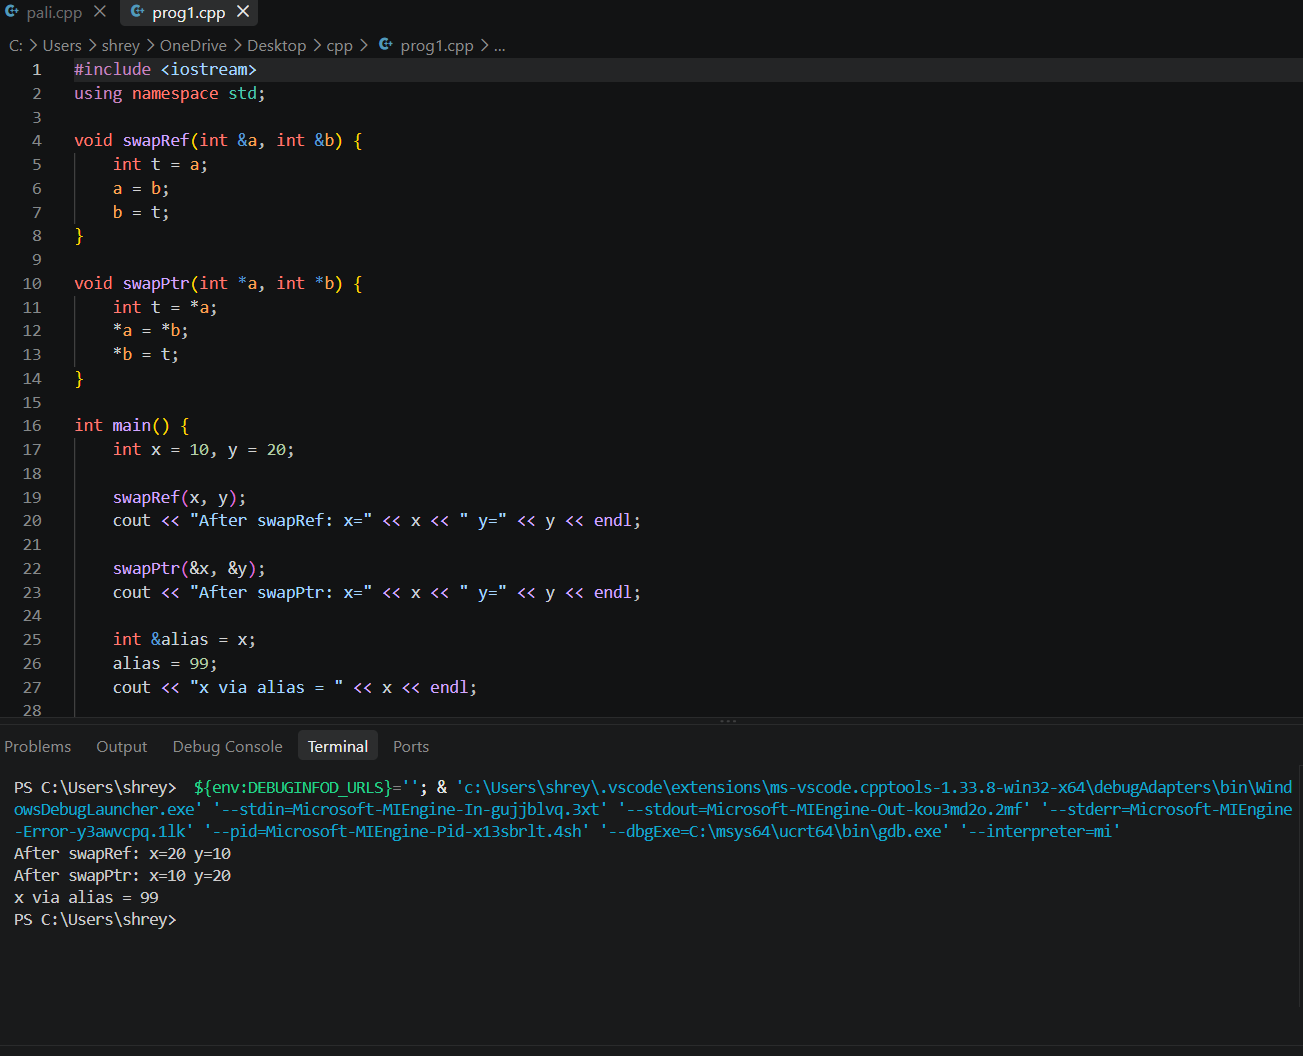
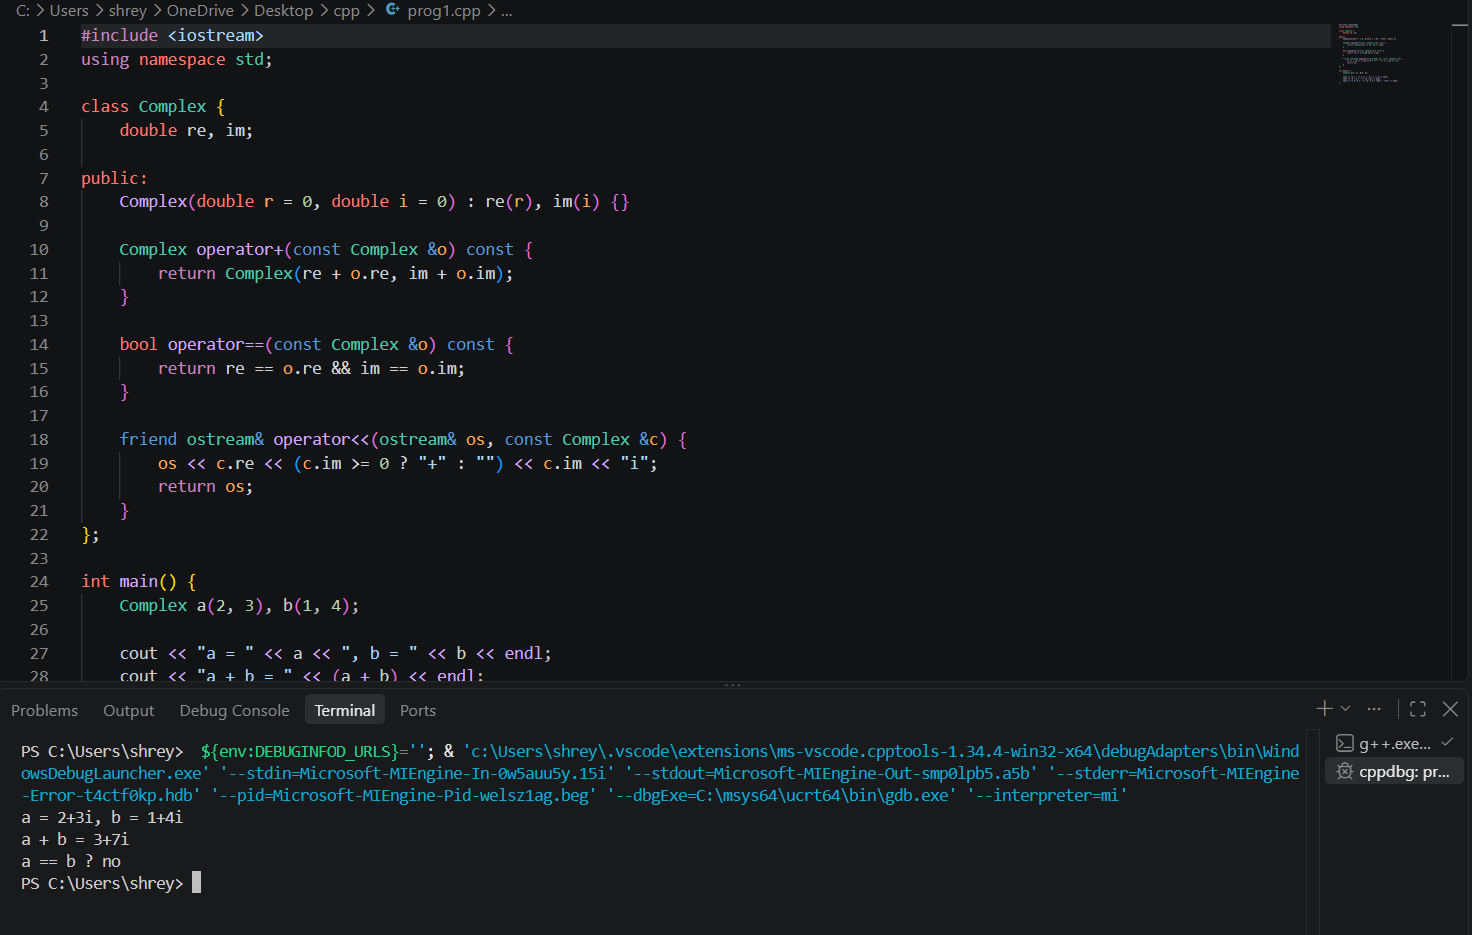
Add files via upload

diff --git a/prog3.cpp b/prog3.cpp
@@ -1,33 +1,52 @@
 #include <iostream>
-#include <string>
-#include <cctype>
-
 using namespace std;
 
+class Counter {
+    int v;
+
+public:
+    Counter(int v = 0) : v(v) {}
+
+    Counter& operator++() {
+        ++v;
+        return *this;
+    }                                      
+
+    Counter operator++(int) {
+        Counter t = *this;
+        ++v;
+        return t;
+    }                                     
+
+    int value() const {
+        return v;
+    }
+};
+
+class SafeArr {
+    int a[5] = {10, 20, 30, 40, 50};
+
+public:
+    int& operator[](int i) {
+        if (i < 0 || i >= 5) {
+            cout << "out of range\n";
+            return a[0];
+        }
+        return a[i];
+    }                                    
+};
+
 int main() {
-    string s = "verification";
+    Counter c(5);
+    ++c;
+    c++;                                 
 
-    cout << "First 4 : " << s.substr(0, 4) << endl;    
-    cout << "From 4  : " << s.substr(4) << endl;       
+    cout << "Counter = " << c.value() << endl;
 
-    int c = s.compare("verify");                       
+    SafeArr s;
+    cout << "s[2] = " << s[2] << endl;    
 
-    cout << "compare vs 'verify': "
-         << (c < 0 ? "<" : c > 0 ? ">" : "=") << endl;
-
-    int freq[26] = {0};
-
-    for (char ch : s)
-        if (isalpha((unsigned char)ch))
-            freq[tolower(ch) - 'a']++;
-
-    cout << "Letter counts: ";
-
-    for (int i = 0; i < 26; ++i)
-        if (freq[i])
-            cout << char('a' + i) << ":" << freq[i] << " ";
-
-    cout << endl;
+    s[10] = 99;                            
 
     return 0;
 }

diff --git a/prog1.cpp b/prog1.cpp
@@ -1,30 +1,30 @@
 #include <iostream>
-using namespace std;    
+using namespace std;
 
-void swapRef(int &a, int &b) {
-    int t = a;
-    a = b;
-    b = t;
-}
+class Complex {
+    double re, im;
 
-void swapPtr(int *a, int *b) {
-    int t = *a;
-    *a = *b;
-    *b = t;
-}
+public:
+    Complex(double r = 0, double i = 0) : re(r), im(i) {}
+
+    Complex operator+(const Complex &o) const {      
+        return Complex(re + o.re, im + o.im);
+    }
+
+    bool operator==(const Complex &o) const {        
+        return re == o.re && im == o.im;
+    }
+    
+    friend ostream& operator<<(ostream& os, const Complex &c) {
+        os << c.re << (c.im >= 0 ? "+" : "") << c.im << "i";
+        return os;                                  
+    }
+};
 
 int main() {
-    int x = 10, y = 20;
+    Complex a(2, 3), b(1, 4);
 
-    swapRef(x, y);         
-    cout << "After swapRef: x=" << x << " y=" << y << endl;
-
-    swapPtr(&x, &y);        
-    cout << "After swapPtr: x=" << x << " y=" << y << endl;
-
-    int &alias = x;         
-    alias = 99;            
-    cout << "x via alias = " << x << endl;
-
-    return 0;
+    cout << "a = " << a << ", b = " << b << endl;
+    cout << "a + b = " << (a + b) << endl;
+    cout << "a == b ? " << (a == b ? "yes" : "no") << endl;
 }

diff --git a/prog2.cpp b/prog2.cpp
@@ -1,0 +1,45 @@
+#include <iostream>
+#include <cstring>
+using namespace std;
+
+class Text {
+    char *buf;
+
+public:
+    Text(const char *s = "") 
+    { 
+        buf = new char[strlen(s)+1]; 
+        strcpy(buf, s); 
+    }
+
+    Text(const Text &o) 
+    { 
+        buf = new char[strlen(o.buf)+1]; 
+        strcpy(buf, o.buf); }
+
+    Text& operator=(const Text &o) 
+    {              
+        if (this != &o) 
+        {                         
+            delete[] buf;                        
+            buf = new char[strlen(o.buf)+1];
+            strcpy(buf, o.buf);
+        }
+        return *this;                            
+    }
+
+    ~Text() { delete[] buf; }
+
+    void show() const { cout << buf << endl; }
+};
+
+int main() {
+    Text a("alpha"), b("beta");
+
+    b = a;                                        
+
+    a.show();
+    b.show();
+
+    return 0;
+}
